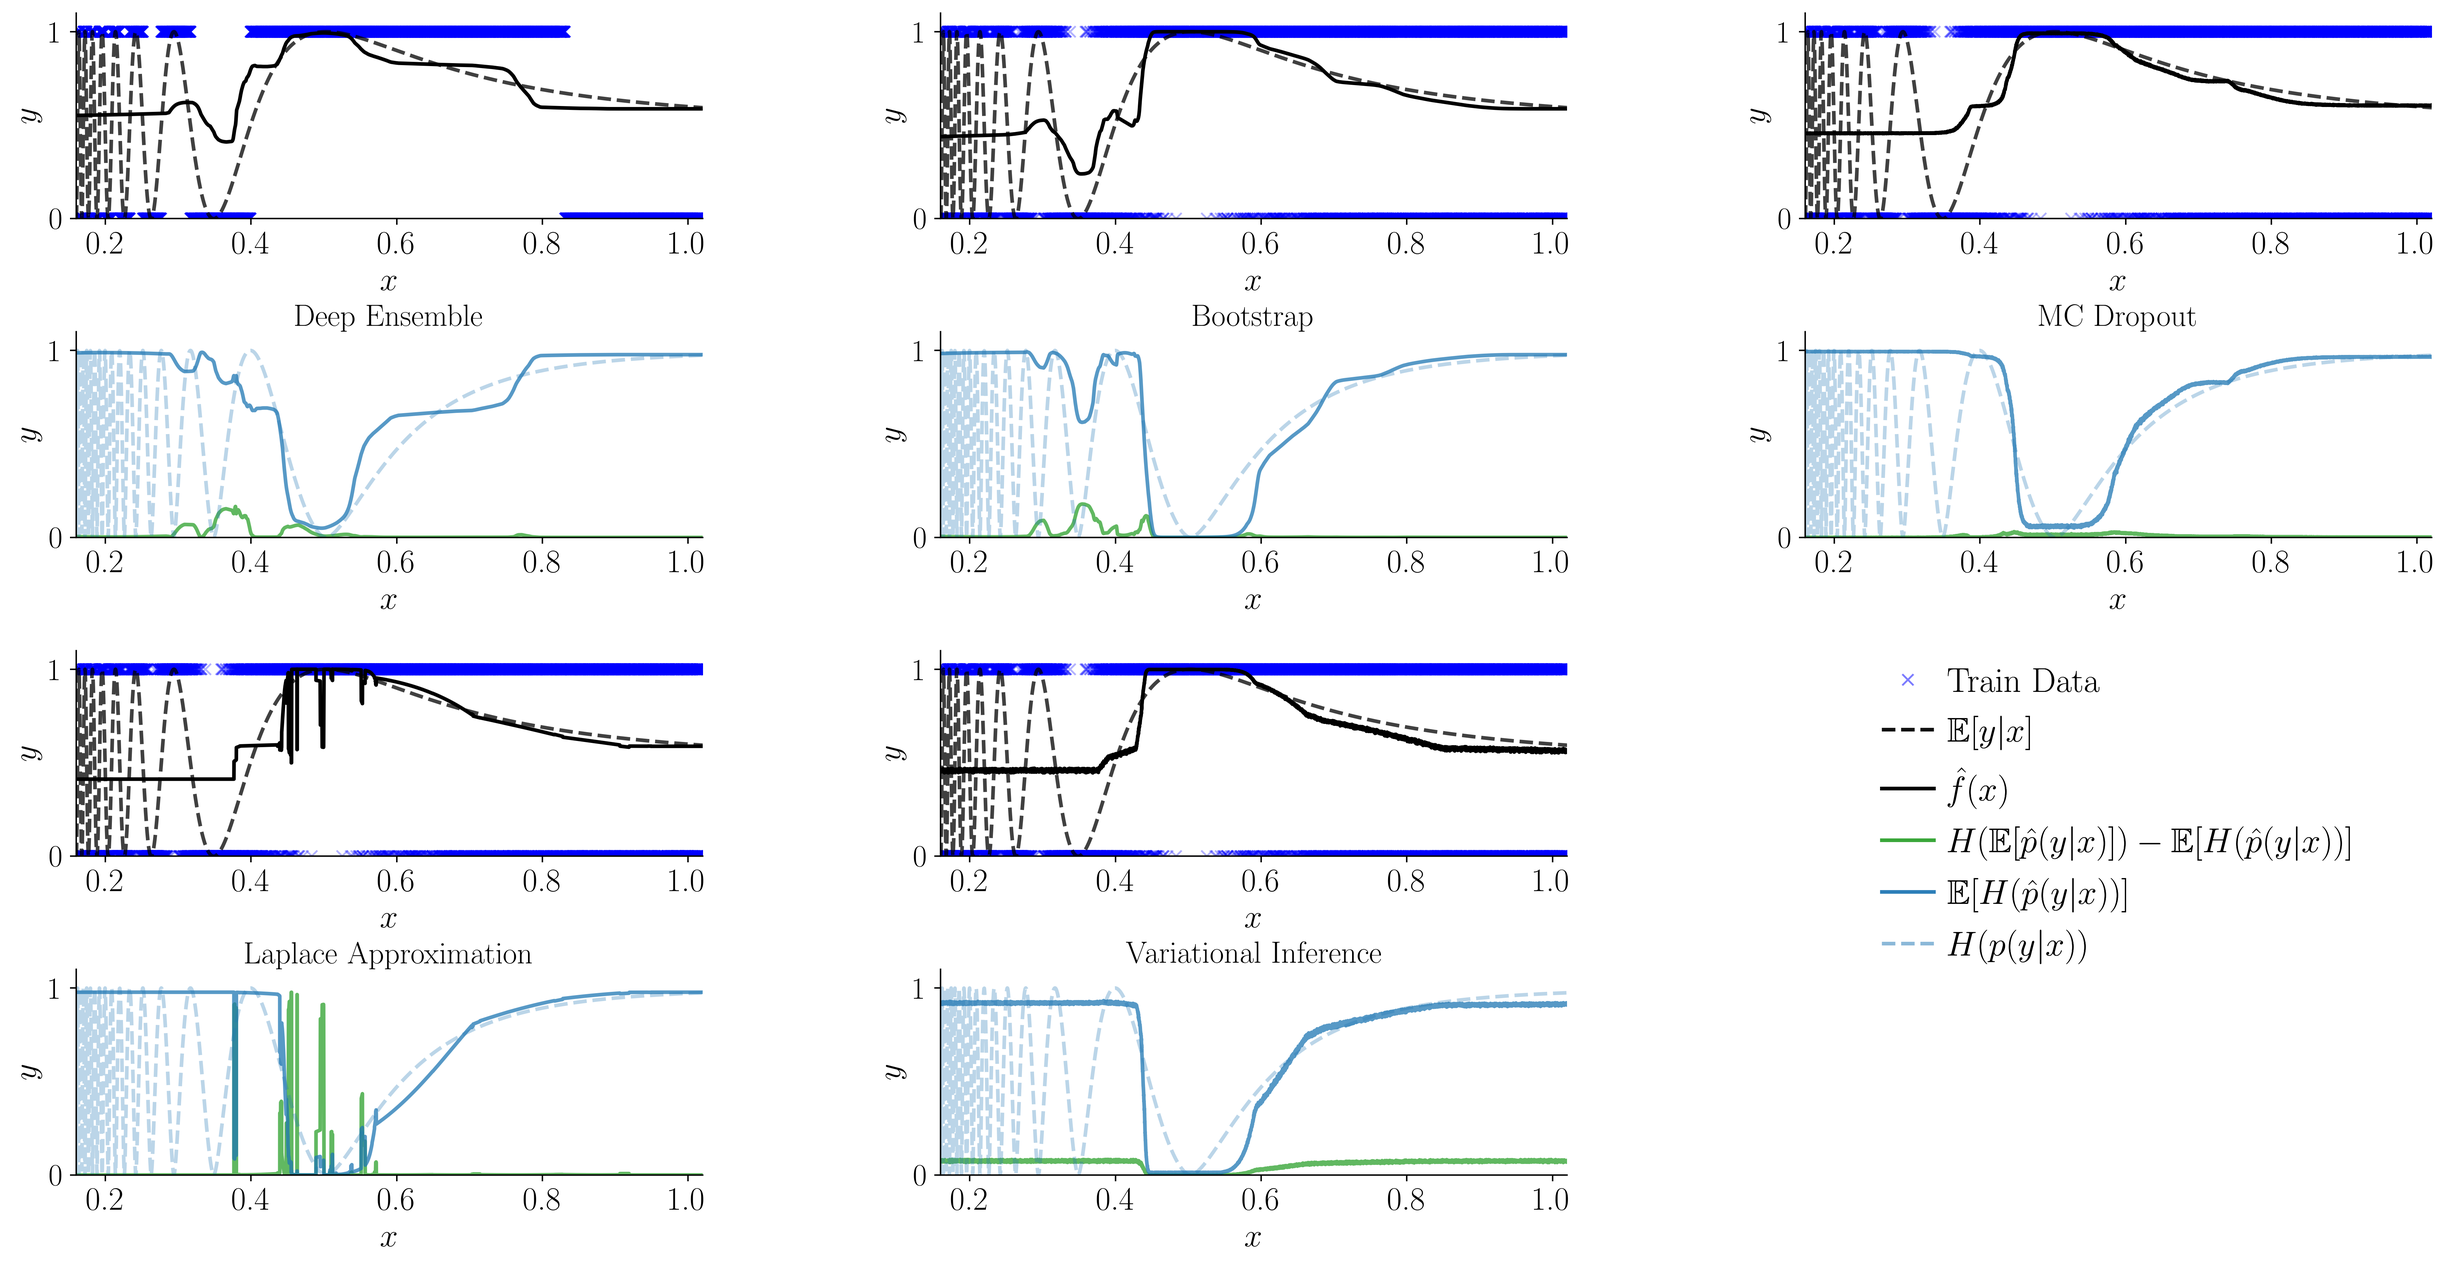
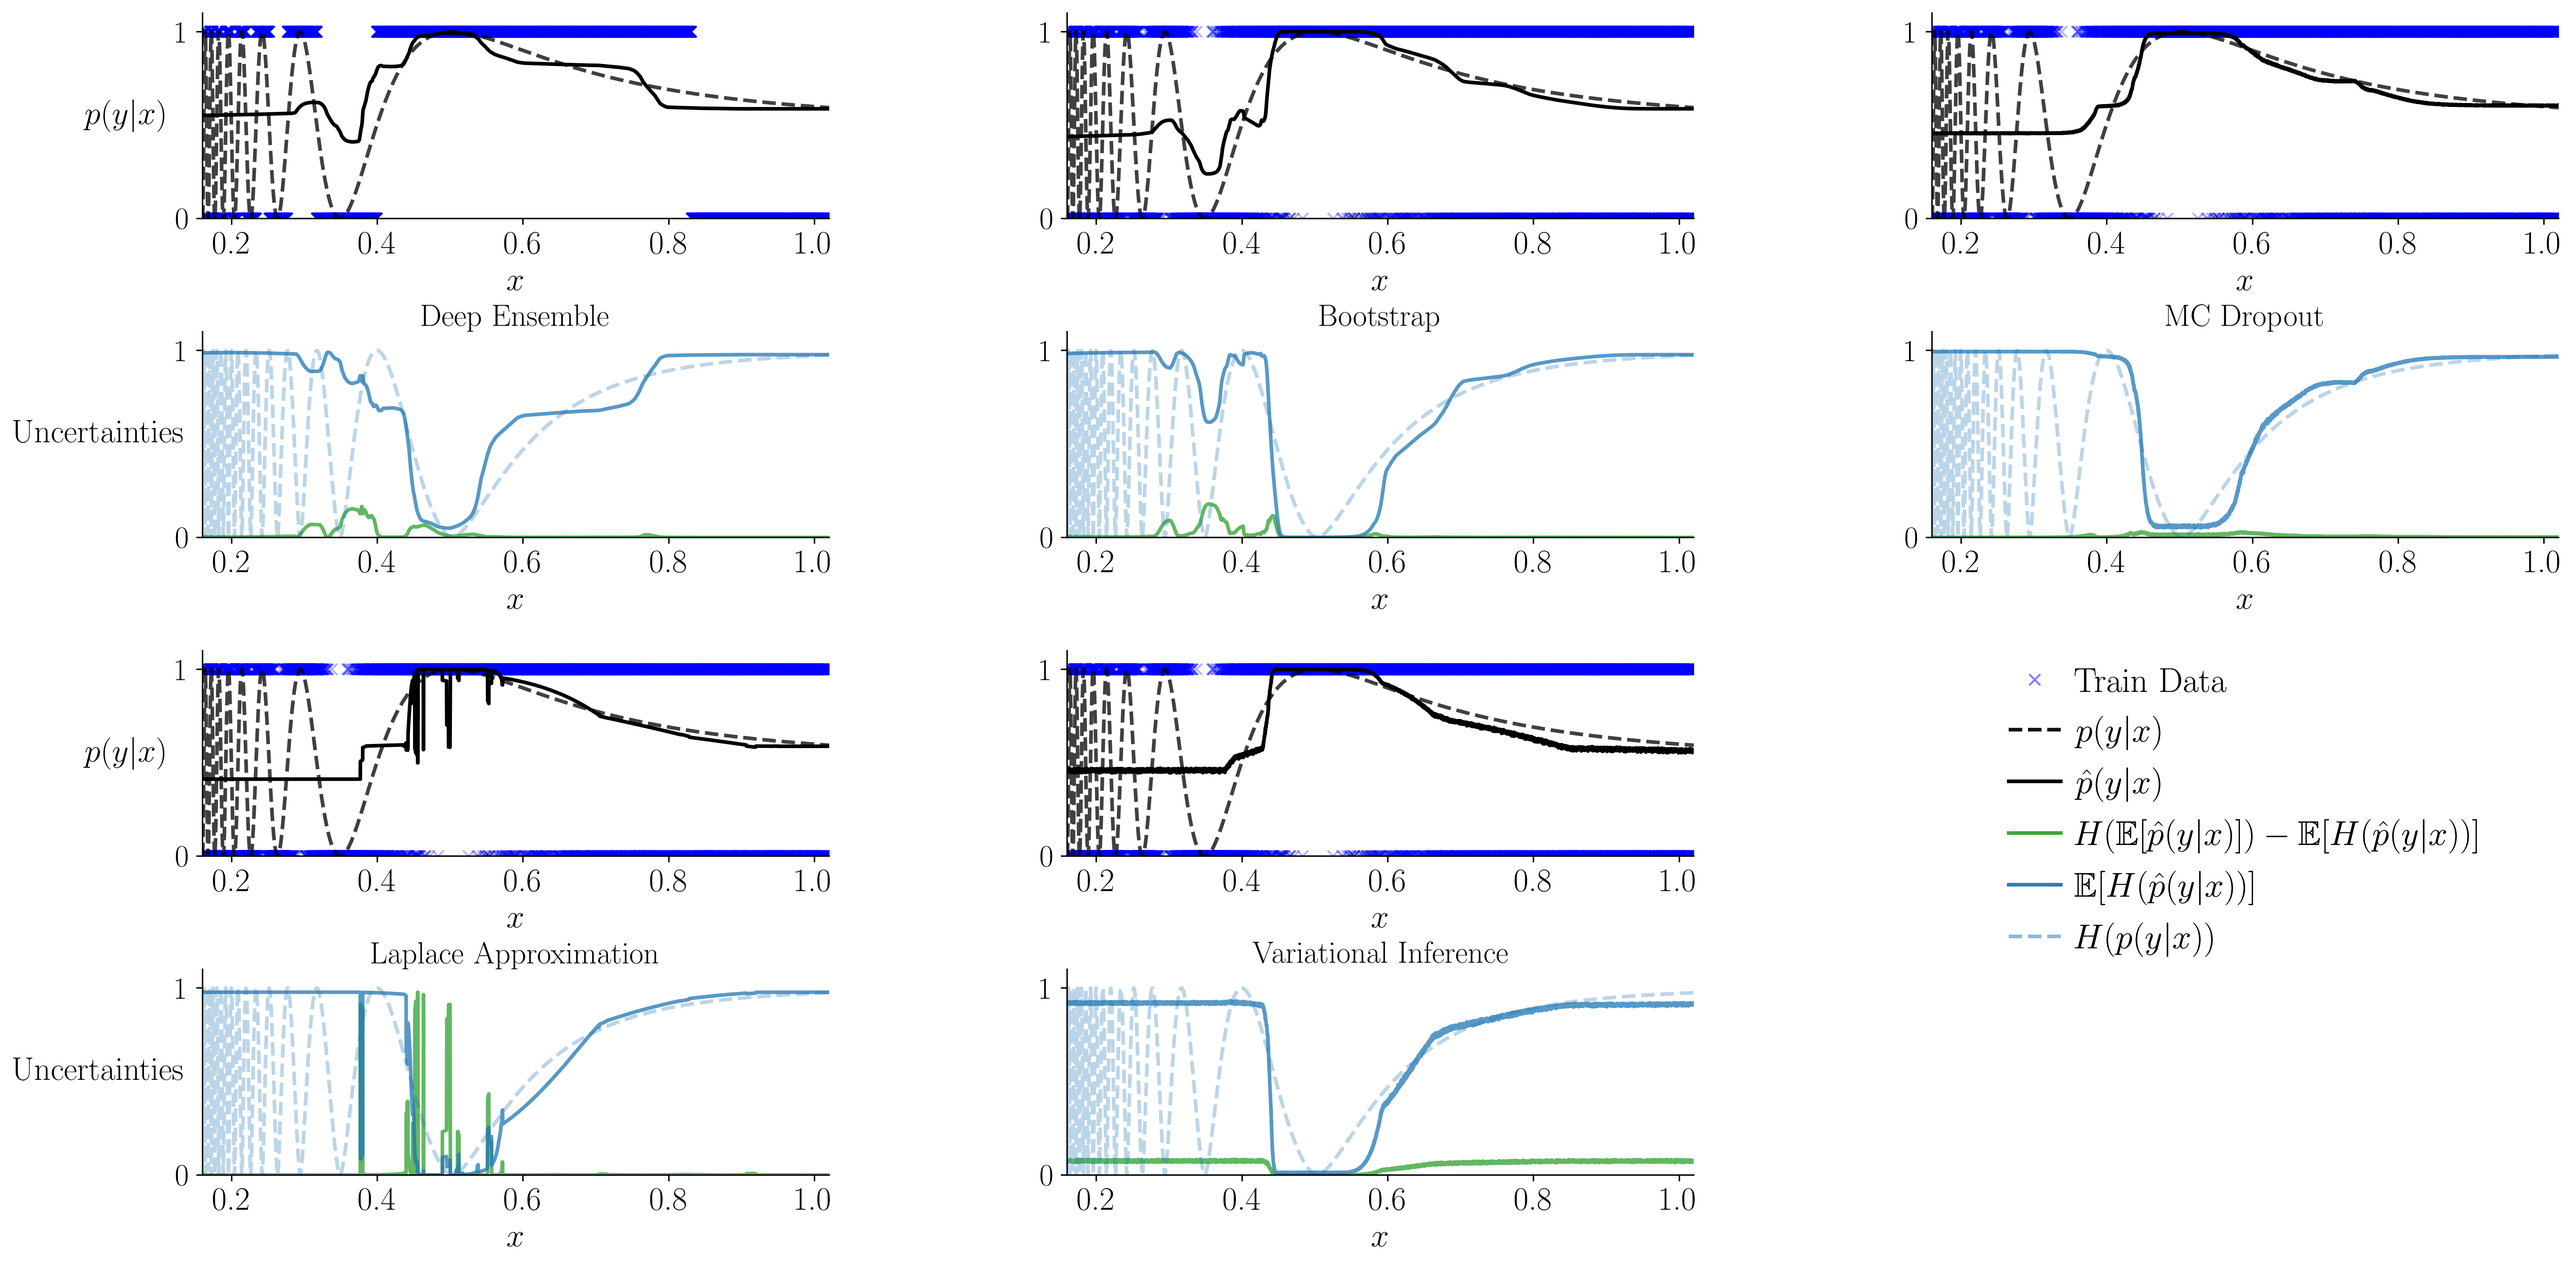
equation added to caption

diff --git a/index.html b/index.html
@@ -1,12 +1,25 @@
 <!DOCTYPE html>
 <html lang="en">
 <head>
-  <meta charset="UTF-8" />
-  <meta name="viewport" content="width=device-width, initial-scale=1.0" />
+  <meta charset="UTF-8"/>
+  <meta name="viewport" content="width=device-width, initial-scale=1.0"/>
   <title>Supplementary Material</title>
-  <link rel="preconnect" href="https://fonts.googleapis.com" />
-  <link rel="preconnect" href="https://fonts.gstatic.com" crossorigin />
-  <link href="https://fonts.googleapis.com/css2?family=Crimson+Pro:ital,wght@0,300;0,400;0,600;1,300;1,400&family=JetBrains+Mono:wght@300;400&display=swap" rel="stylesheet" />
+  <link rel="preconnect" href="https://fonts.googleapis.com"/>
+  <link rel="preconnect" href="https://fonts.gstatic.com" crossorigin/>
+  <link
+    href="https://fonts.googleapis.com/css2?family=Crimson+Pro:ital,wght@0,300;0,400;0,600;1,300;1,400&family=JetBrains+Mono:wght@300;400&display=swap"
+    rel="stylesheet"/>
+  <link rel="stylesheet" href="https://cdn.jsdelivr.net/npm/katex@0.16.9/dist/katex.min.css">
+  <script defer src="https://cdn.jsdelivr.net/npm/katex@0.16.9/dist/katex.min.js"></script>
+  <script defer src="https://cdn.jsdelivr.net/npm/katex@0.16.9/dist/contrib/auto-render.min.js"
+          onload="renderMathInElement(document.body, {
+    delimiters: [
+      {left: '$$', right: '$$', display: true},
+      {left: '$', right: '$', display: false}
+    ]
+  });">
+  </script>
+  2. Use
   <style>
     :root {
       --ink: #1a1a1a;
@@ -186,51 +199,66 @@
 
     /* ── Fade-in ── */
     @keyframes fadein {
-      from { opacity: 0; transform: translateY(10px); }
-      to   { opacity: 1; transform: translateY(0); }
+      from {
+        opacity: 0;
+        transform: translateY(10px);
+      }
+      to {
+        opacity: 1;
+        transform: translateY(0);
+      }
     }
 
     header, main, footer {
       animation: fadein 0.5s ease both;
     }
-    main   { animation-delay: 0.08s; }
-    footer { animation-delay: 0.14s; }
+
+    main {
+      animation-delay: 0.08s;
+    }
+
+    footer {
+      animation-delay: 0.14s;
+    }
   </style>
 </head>
 <body>
 
-  <header>
-    <p class="eyebrow">ICML 2026 &mdash; Rebuttal</p>
-    <h1>Position: Epistemic uncertainty estimation methods are fundamentally incomplete</h1>
-    <p class="subtitle">Additional figures referenced in the author rebuttal</p>
-  </header>
+<header>
+  <p class="eyebrow">ICML 2026 &mdash; Rebuttal</p>
+  <h1>Position: Epistemic uncertainty estimation methods are fundamentally incomplete</h1>
+  <p class="subtitle">Additional figures referenced in the author rebuttal</p>
+</header>
 
-  <main>
-    <figure class="figure-block">
-      <p class="figure-label">Figure 1</p>
-      <div class="figure-frame">
-        <!-- Replace the placeholder below with your actual image:
-             <img src="your-figure.png" alt="Brief description of the figure" />
-        -->
-<!--        <div class="placeholder">-->
-<!--          <svg width="32" height="32" viewBox="0 0 24 24" fill="none" stroke="currentColor" stroke-width="1" stroke-linecap="round" stroke-linejoin="round"><rect x="3" y="3" width="18" height="18" rx="2"/><circle cx="8.5" cy="8.5" r="1.5"/><polyline points="21 15 16 10 5 21"/></svg>-->
-<!--          <span>Replace with your figure.png</span>-->
-<!--        </div>-->
-        <img src="img/figure_rebuttal_classification_grid.png" alt="Binary classification problem" />
-      </div>
-      <figcaption>
-        <strong>Figure 1.</strong>
-        Uncertainty estimation for a binary classification problem. There are two panels for each model type. The panel on top shows the training data, the true conditional expectation and the model predictions. The panel on the bottom shows the aleatoric and epistemic uncertainty estimates, and the true aleatoric uncertainty (entropy of the true conditional expected value at each point). We see that when the model bias is high, aleatoric uncertainty is inflated and epistemic uncertainty is underestimated.
-      </figcaption>
-    </figure>
+<main>
+  <figure class="figure-block">
+    <p class="figure-label">Figure 1</p>
+    <div class="figure-frame">
+      <!-- Replace the placeholder below with your actual image:
+           <img src="your-figure.png" alt="Brief description of the figure" />
+      -->
+      <!--        <div class="placeholder">-->
+      <!--          <svg width="32" height="32" viewBox="0 0 24 24" fill="none" stroke="currentColor" stroke-width="1" stroke-linecap="round" stroke-linejoin="round"><rect x="3" y="3" width="18" height="18" rx="2"/><circle cx="8.5" cy="8.5" r="1.5"/><polyline points="21 15 16 10 5 21"/></svg>-->
+      <!--          <span>Replace with your figure.png</span>-->
+      <!--        </div>-->
+      <img src="img/figure_rebuttal_classification_grid.png" alt="Binary classification problem"/>
+    </div>
+    <figcaption>
+      <strong>Figure 1.</strong>
+      Uncertainty estimation for a binary classification problem, where $p(y|x)=0.5\times(\sin(\frac{1}{5x^3})+1)$. There are two panels for each model type. The panel on
+      top shows the training data as the blue marks, the true probability of $y$ given $x$ and the models' probabilities predictions. The panel on the bottom
+      shows the aleatoric and epistemic uncertainty estimates, and the true aleatoric uncertainty (entropy of the true conditional probability). We see that when the model bias is high, aleatoric uncertainty is
+      inflated and epistemic uncertainty is underestimated.
+    </figcaption>
+  </figure>
 
 
-  </main>
+</main>
 
-  <footer>
-    <span class="footer-note">Supplementary material &mdash; author rebuttal</span>
-    <span class="footer-note">Anonymous submission</span>
-  </footer>
+<footer>
+  <span class="footer-note">Supplementary material &mdash; author rebuttal</span>
+  <span class="footer-note">Anonymous submission</span>
+</footer>
 
 </body>
 </html>
